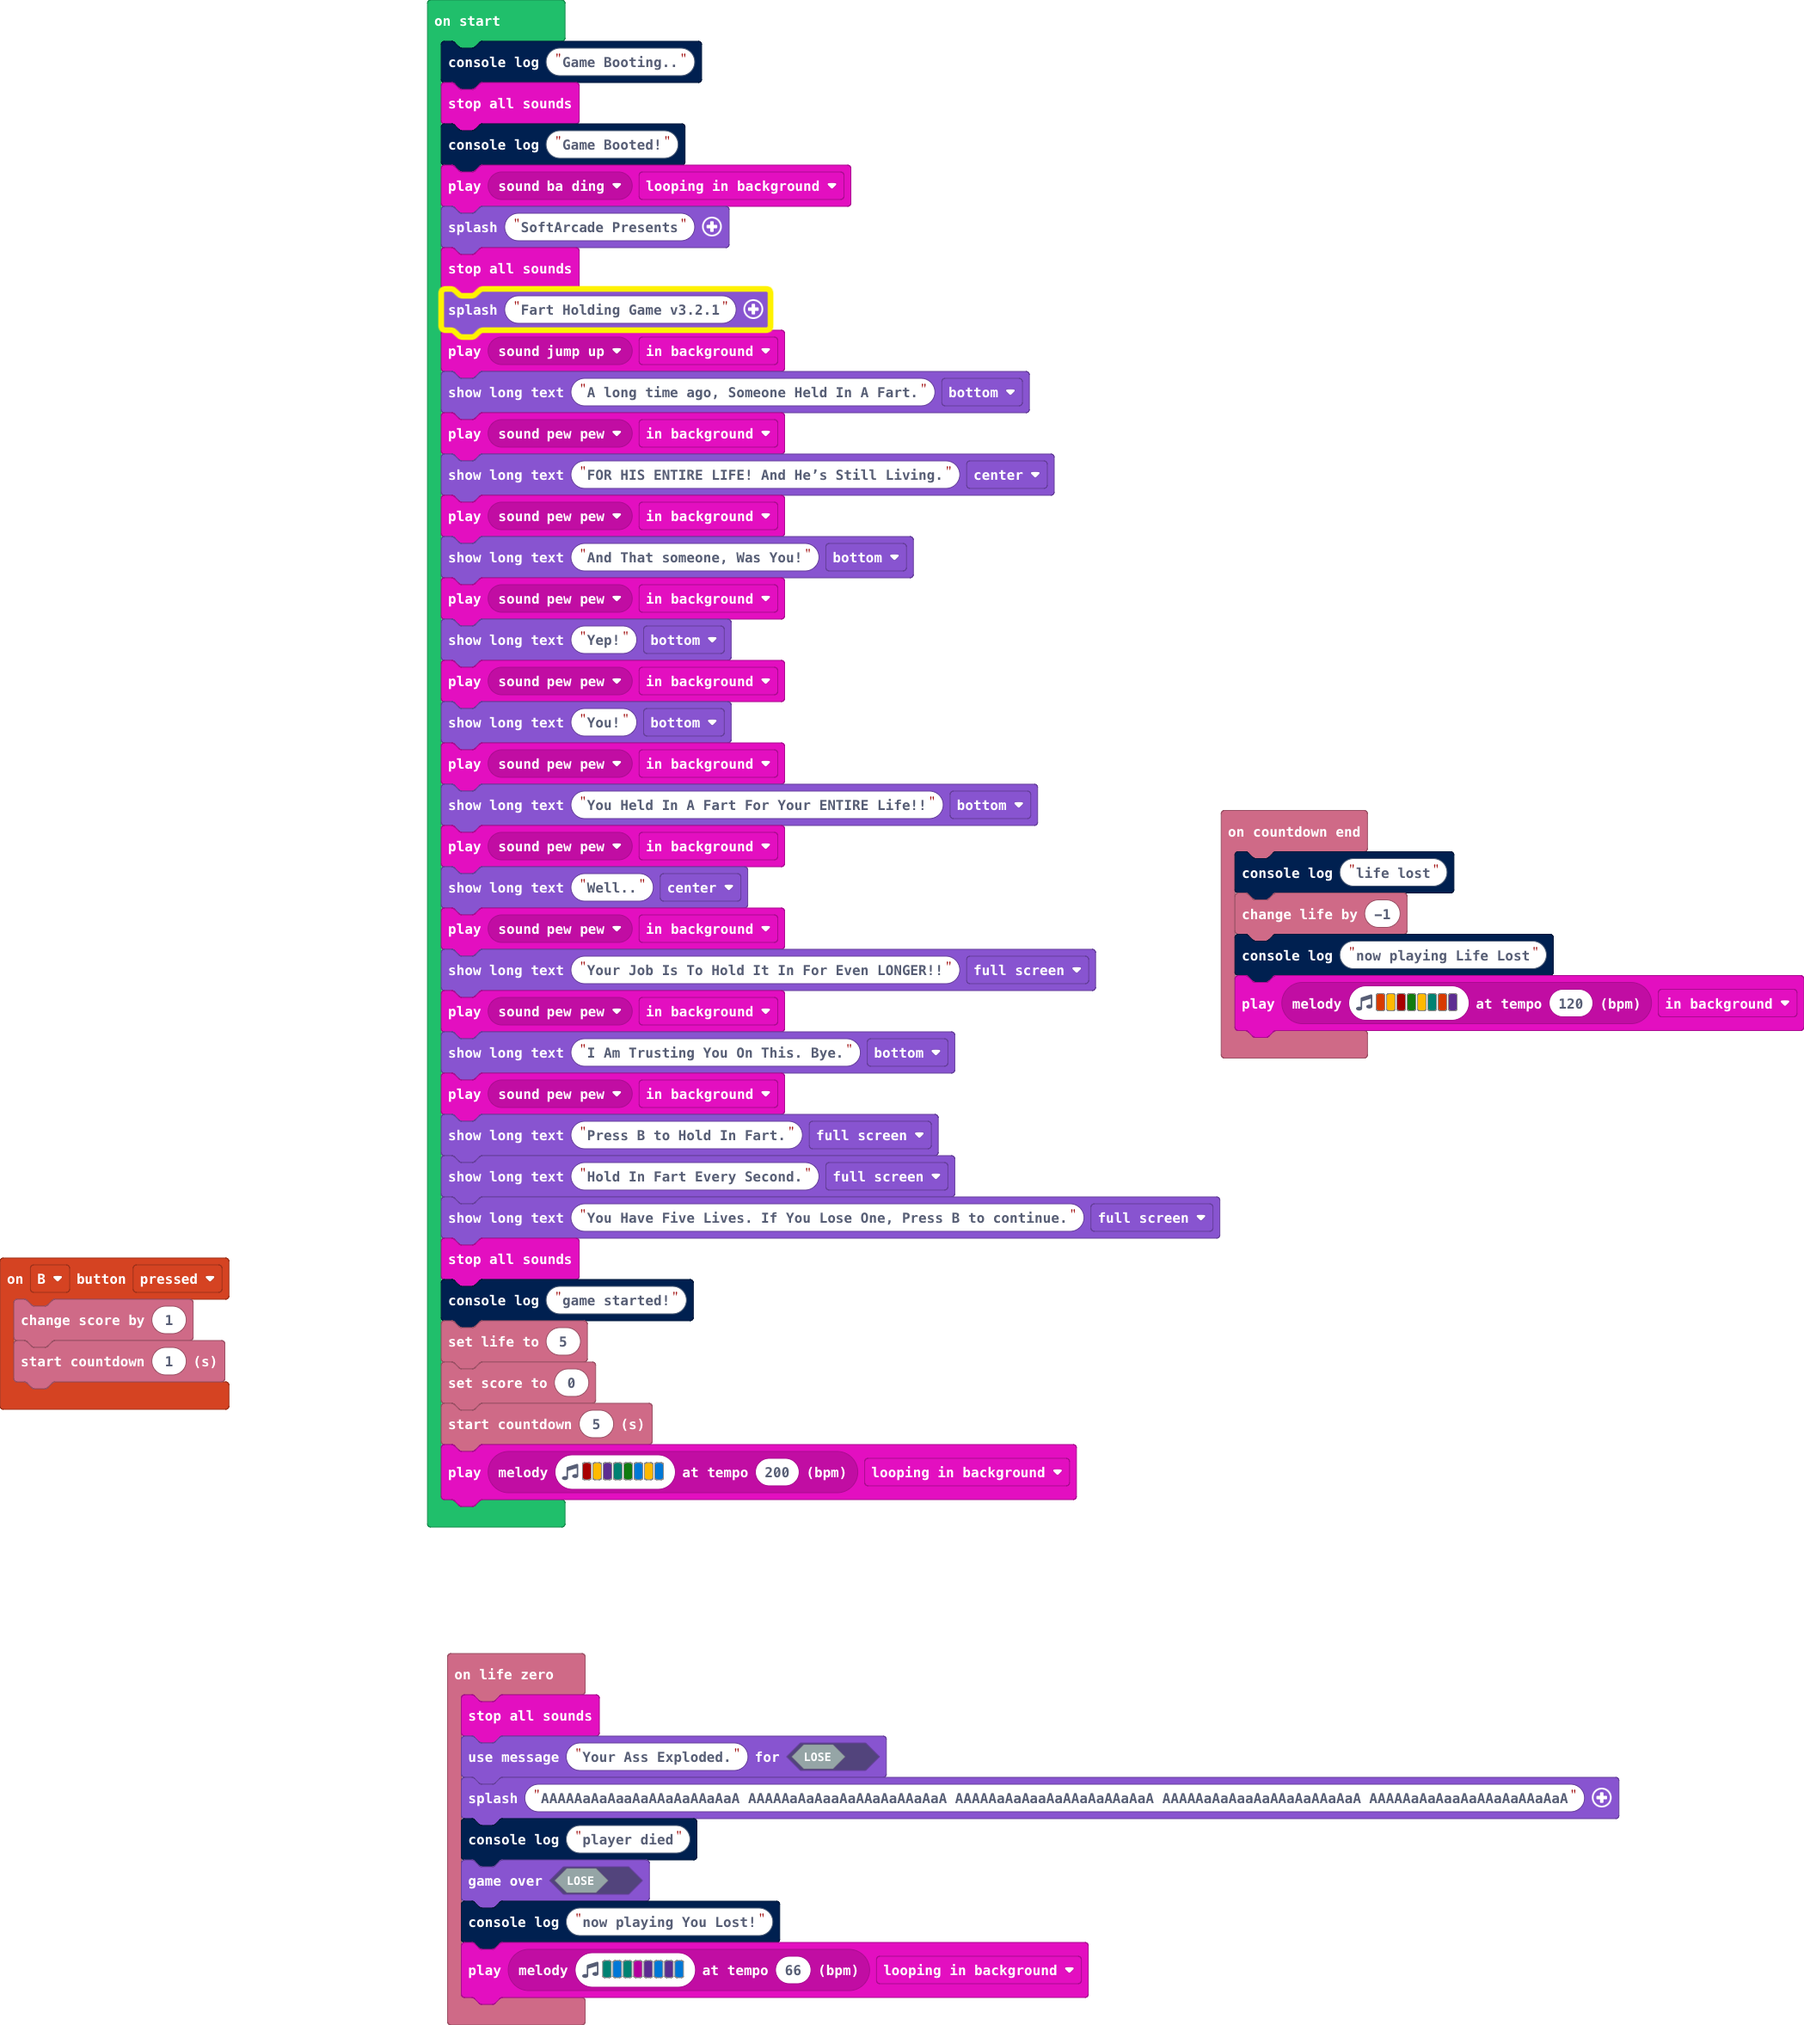
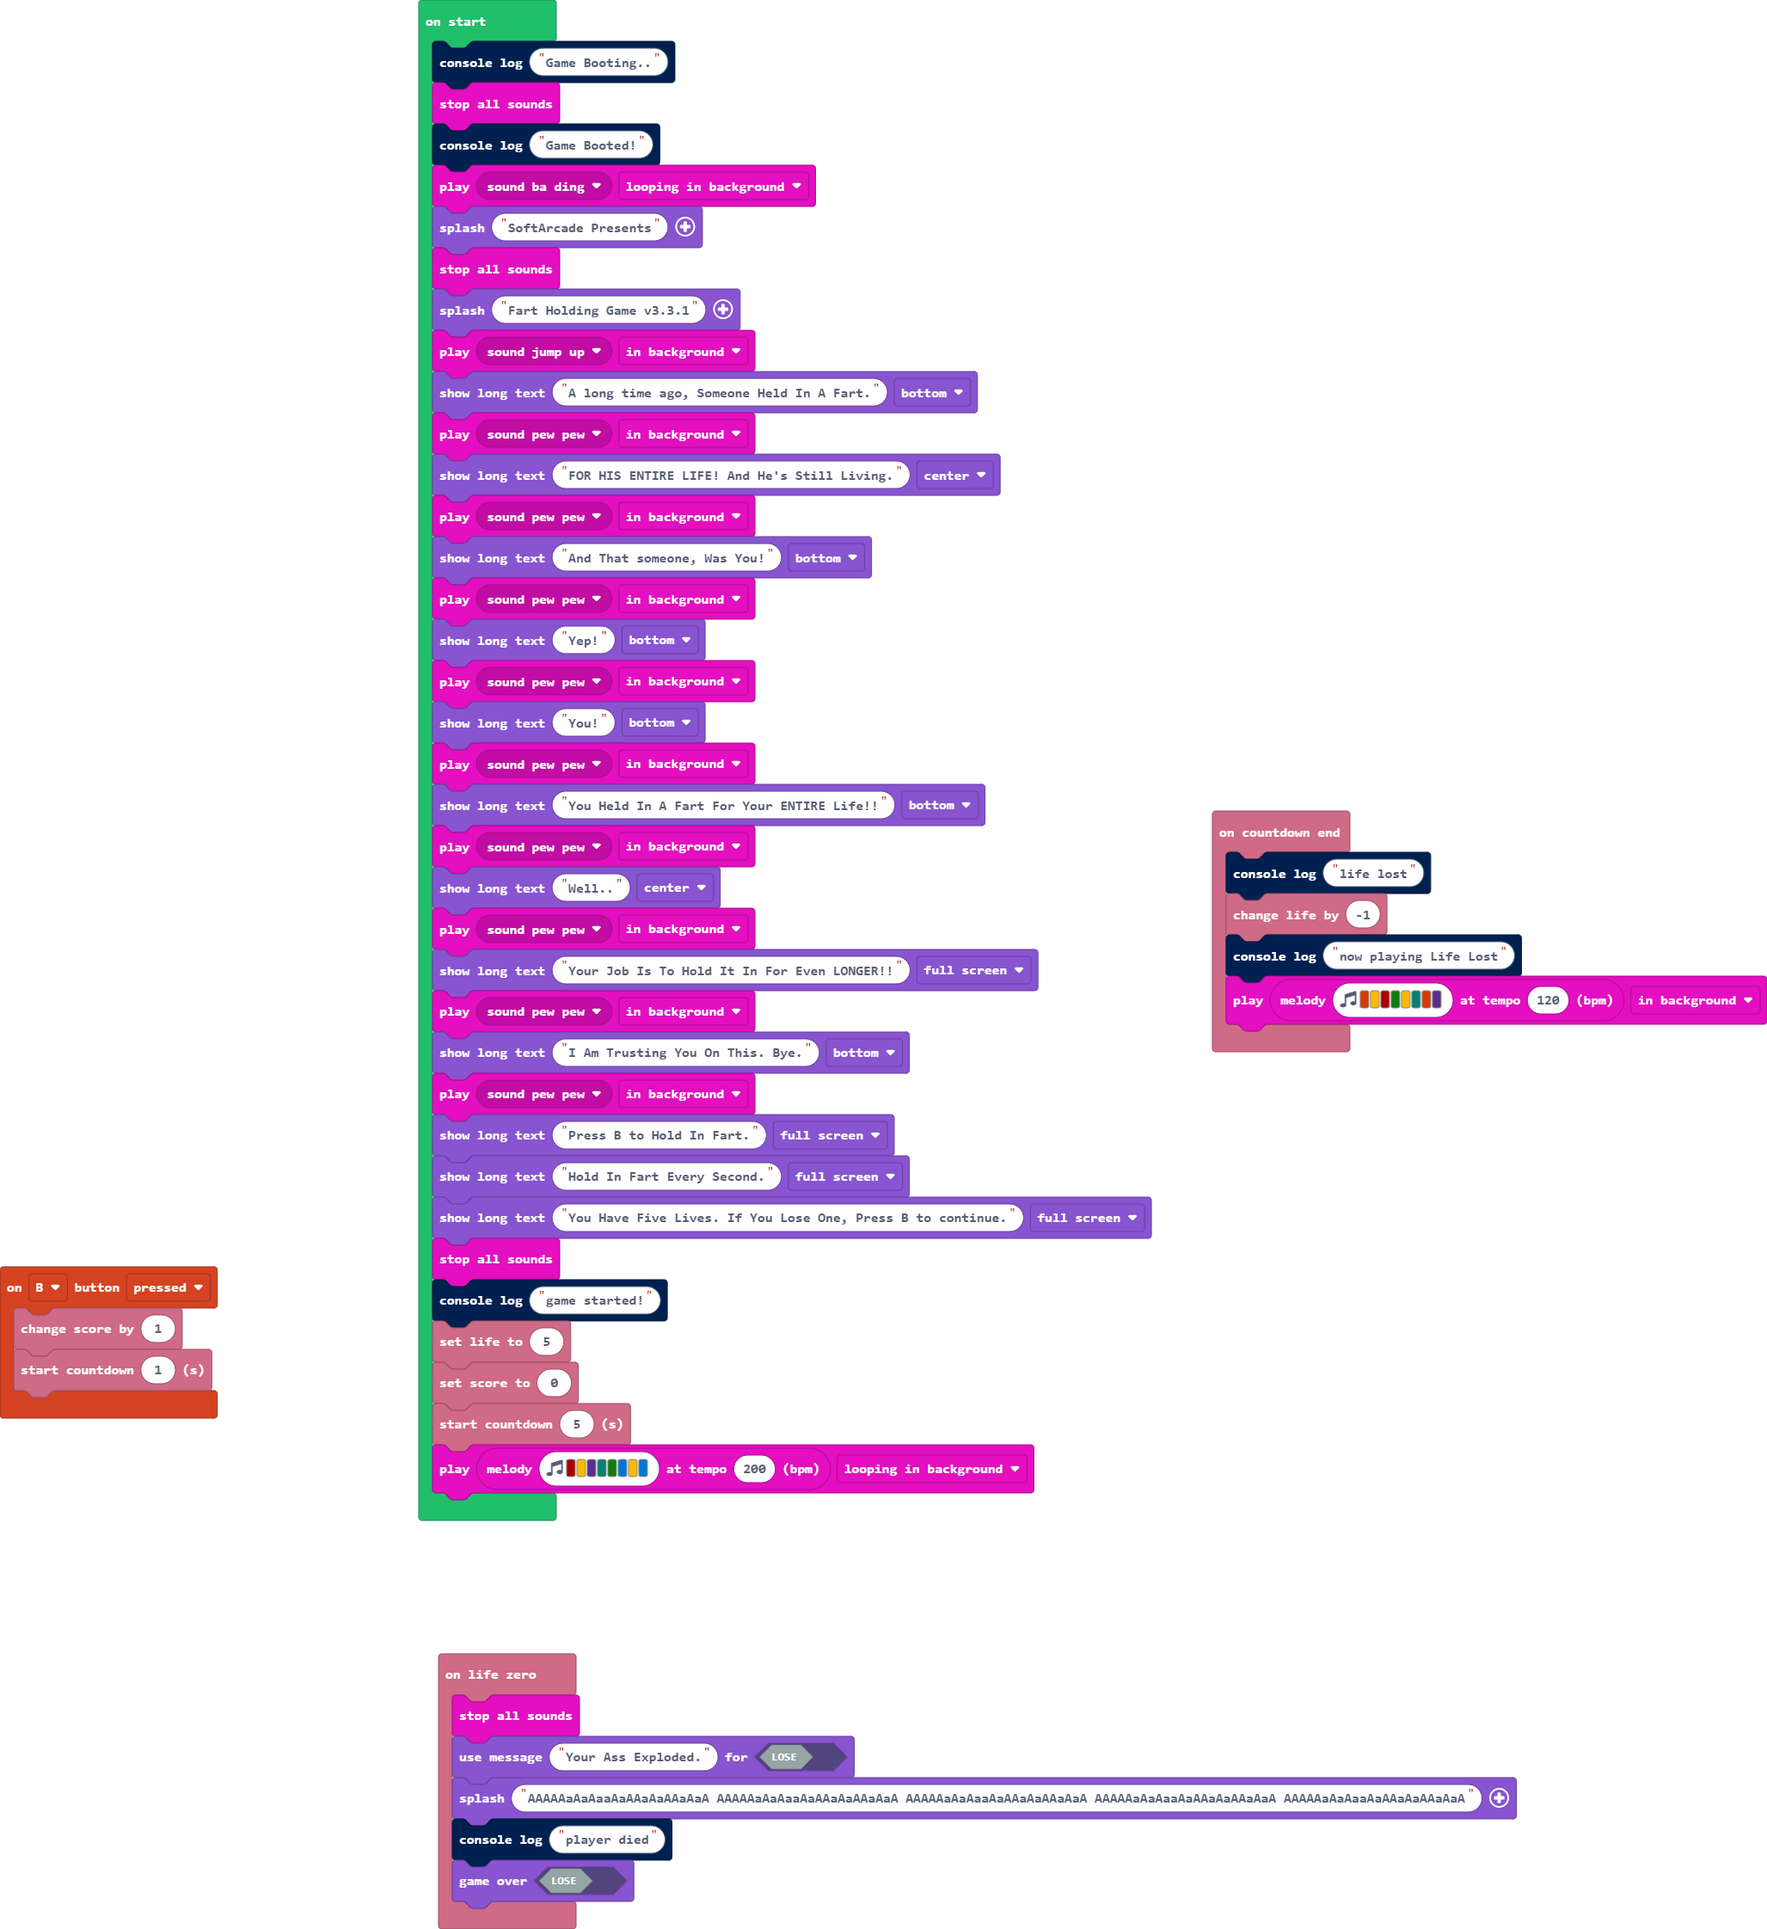
i just deleted things the game didn't even use.

Changed region(s): [[0.218, 0.0, 0.9032, 0.9987], [0.654, 0.3745, 1.0, 0.5617], [0.0, 0.593, 0.1246, 0.749]]

diff --git a/main.ts b/main.ts
@@ -14,8 +14,6 @@ info.onLifeZero(function () {
     game.splash("AAAAAaAaAaaAaAAaAaAAaAaA AAAAAaAaAaaAaAAaAaAAaAaA AAAAAaAaAaaAaAAaAaAAaAaA AAAAAaAaAaaAaAAaAaAAaAaA AAAAAaAaAaaAaAAaAaAAaAaA")
     console.log("player died")
     game.gameOver(false)
-    console.log("now playing You Lost!")
-    music.play(music.stringPlayable("F E F C D E D E ", 66), music.PlaybackMode.LoopingInBackground)
 })
 console.log("Game Booting..")
 music.stopAllSounds()
@@ -23,11 +21,11 @@ console.log("Game Booted!")
 music.play(music.melodyPlayable(music.baDing), music.PlaybackMode.LoopingInBackground)
 game.splash("SoftArcade Presents")
 music.stopAllSounds()
-game.splash("Fart Holding Game v3.2.1")
+game.splash("Fart Holding Game v3.3.1")
 music.play(music.melodyPlayable(music.jumpUp), music.PlaybackMode.InBackground)
 game.showLongText("A long time ago, Someone Held In A Fart.", DialogLayout.Bottom)
 music.play(music.melodyPlayable(music.pewPew), music.PlaybackMode.InBackground)
-game.showLongText("FOR HIS ENTIRE LIFE! And He’s Still Living.", DialogLayout.Center)
+game.showLongText("FOR HIS ENTIRE LIFE! And He's Still Living.", DialogLayout.Center)
 music.play(music.melodyPlayable(music.pewPew), music.PlaybackMode.InBackground)
 game.showLongText("And That someone, Was You!", DialogLayout.Bottom)
 music.play(music.melodyPlayable(music.pewPew), music.PlaybackMode.InBackground)

diff --git a/main.py b/main.py
@@ -1,0 +1,76 @@
+def on_b_pressed():
+    info.change_score_by(1)
+    info.start_countdown(1)
+controller.B.on_event(ControllerButtonEvent.PRESSED, on_b_pressed)
+
+def on_countdown_end():
+    print("life lost")
+    info.change_life_by(-1)
+    print("now playing Life Lost")
+    music.play(music.string_playable("B A C5 G A F B D ", 120),
+        music.PlaybackMode.IN_BACKGROUND)
+info.on_countdown_end(on_countdown_end)
+
+def on_life_zero():
+    music.stop_all_sounds()
+    game.set_game_over_message(False, "Your Ass Exploded.")
+    game.splash("AAAAAaAaAaaAaAAaAaAAaAaA AAAAAaAaAaaAaAAaAaAAaAaA AAAAAaAaAaaAaAAaAaAAaAaA AAAAAaAaAaaAaAAaAaAAaAaA AAAAAaAaAaaAaAAaAaAAaAaA")
+    print("player died")
+    game.game_over(False)
+    print("now playing You Lost!")
+    music.play(music.string_playable("F E F C D E D E ", 66),
+        music.PlaybackMode.LOOPING_IN_BACKGROUND)
+info.on_life_zero(on_life_zero)
+
+print("Game Booting..")
+music.stop_all_sounds()
+print("Game Booted!")
+music.play(music.melody_playable(music.ba_ding),
+    music.PlaybackMode.LOOPING_IN_BACKGROUND)
+game.splash("SoftArcade Presents")
+music.stop_all_sounds()
+game.splash("Fart Holding Game v3.2.1")
+music.play(music.melody_playable(music.jump_up),
+    music.PlaybackMode.IN_BACKGROUND)
+game.show_long_text("A long time ago, Someone Held In A Fart.",
+    DialogLayout.BOTTOM)
+music.play(music.melody_playable(music.pew_pew),
+    music.PlaybackMode.IN_BACKGROUND)
+game.show_long_text("FOR HIS ENTIRE LIFE! And He’s Still Living.",
+    DialogLayout.CENTER)
+music.play(music.melody_playable(music.pew_pew),
+    music.PlaybackMode.IN_BACKGROUND)
+game.show_long_text("And That someone, Was You!", DialogLayout.BOTTOM)
+music.play(music.melody_playable(music.pew_pew),
+    music.PlaybackMode.IN_BACKGROUND)
+game.show_long_text("Yep!", DialogLayout.BOTTOM)
+music.play(music.melody_playable(music.pew_pew),
+    music.PlaybackMode.IN_BACKGROUND)
+game.show_long_text("You!", DialogLayout.BOTTOM)
+music.play(music.melody_playable(music.pew_pew),
+    music.PlaybackMode.IN_BACKGROUND)
+game.show_long_text("You Held In A Fart For Your ENTIRE Life!!",
+    DialogLayout.BOTTOM)
+music.play(music.melody_playable(music.pew_pew),
+    music.PlaybackMode.IN_BACKGROUND)
+game.show_long_text("Well..", DialogLayout.CENTER)
+music.play(music.melody_playable(music.pew_pew),
+    music.PlaybackMode.IN_BACKGROUND)
+game.show_long_text("Your Job Is To Hold It In For Even LONGER!!",
+    DialogLayout.FULL)
+music.play(music.melody_playable(music.pew_pew),
+    music.PlaybackMode.IN_BACKGROUND)
+game.show_long_text("I Am Trusting You On This. Bye.", DialogLayout.BOTTOM)
+music.play(music.melody_playable(music.pew_pew),
+    music.PlaybackMode.IN_BACKGROUND)
+game.show_long_text("Press B to Hold In Fart.", DialogLayout.FULL)
+game.show_long_text("Hold In Fart Every Second.", DialogLayout.FULL)
+game.show_long_text("You Have Five Lives. If You Lose One, Press B to continue.",
+    DialogLayout.FULL)
+music.stop_all_sounds()
+print("game started!")
+info.set_life(5)
+info.set_score(0)
+info.start_countdown(5)
+music.play(music.string_playable("C5 A D F G E A E ", 200),
+    music.PlaybackMode.LOOPING_IN_BACKGROUND)
